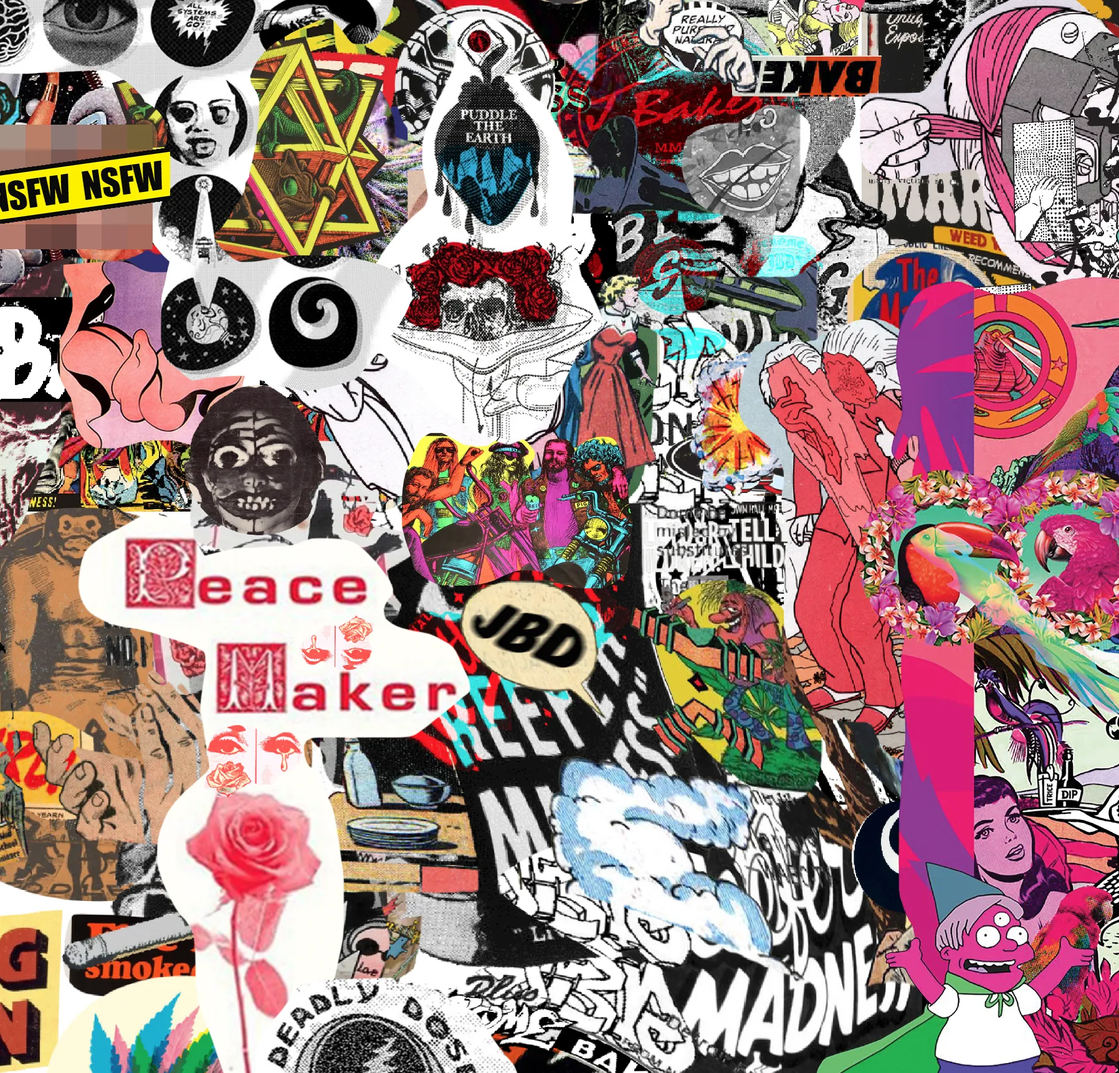
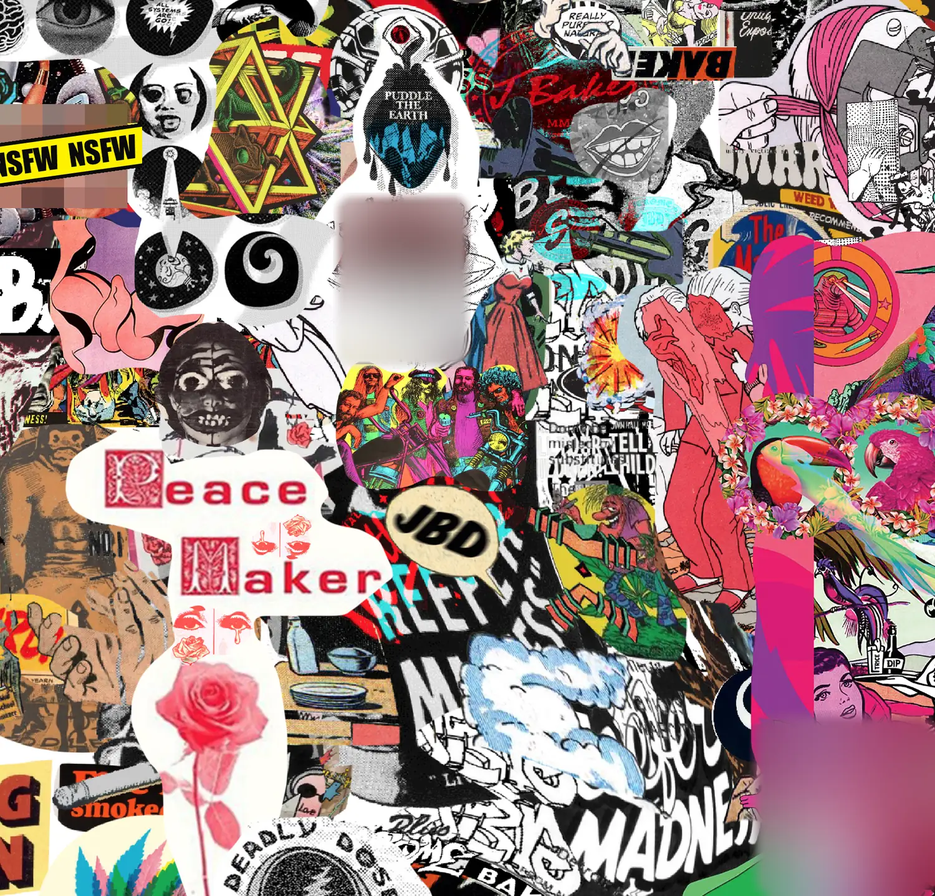
Origin art: blur third-party characters and brand marks, cut file sizes, lazy-load
- tools/build_origin.py: new BLURS list (soft blur, no tape; the tape stays for NSFW):
  McDonald's characters, Mickey, Alfred E. Neuman, Uncle Duke, Freak Brothers-style and
  R. Crumb comic characters, Rupert Bear, Nike swoosh parodies, the Simpsons-style gnome,
  Grateful Dead skull/skeleton art, Obey-style face, Disney-style comic animals, Donald Duck,
  Felix the Cat, King Kong, Campbell's can parody. Every blur keeps clear of the crew spots.
- Origin images resized/recompressed: booth 860->360KB, box-back 943->394KB, wall 817->376KB,
  box-cut 688->361KB, box 411->368KB, c2018 433->268KB (zoom still capped at ~1.6x pixels)
- Origin image is lazy-loaded (it sits below the first screen)
- Lunar Larry and Chomps spots re-centred on the art

Claude-Session: https://claude.ai/code/session_01AJWd6wB1XjU8D3zhntLjNq

diff --git a/crew/mr-x/index.html b/crew/mr-x/index.html
@@ -37,7 +37,7 @@
 <div class="say"><span class="line" id="line">X marks the spot. I&#x27;m the X.</span><button type="button" class="btn btn-ink" id="more">Say more</button></div>
 </div>
 </section>
-<section class="og pad" id="origin" aria-labelledby="ogT" data-kind="booth"><div class="wrap og-in"><div class="og-copy"><p class="og-kick">Off the booth wall</p><h2 id="ogT" class="display">Where Mr. X comes from</h2><p class="og-what">The long Jerome Baker booth wall</p><p class="og-txt">This is the long booth wall, the big one that goes up behind us at shows. Years of hand sketches, posters and murals, all ours, pinned to barn wood. Mr. X started out right here. JB fam, if you see us out and about, come find Mr. X on the wall.</p><p class="og-spot"><b>Find Mr. X:</b> The graph-paper sheet taped up on the right: five takes on one X.</p></div><figure class="og-view"><div class="og-frame" id="ogFrame" data-spot="68.8,39.9,9.7,30.3" style="--ar:3600/1246;--fa:2.000;--fa-m:1.600"><div class="og-stage" id="ogStage"><img src="../../assets/origin/wall.webp" alt="The whole long Jerome Baker booth wall: posters, framed art, a page of X sketches and a giant JBD tag on barn wood. Mr. X is marked: The graph-paper sheet taped up on the right: five takes on one X." width="3600" height="1246" decoding="async"><span class="og-mark" style="left:68.8%;top:39.9%;width:9.7%;height:30.3%"><span class="og-tag">Mr. X</span></span></div></div><figcaption class="og-bar"><button type="button" class="og-tog" id="ogTog" aria-pressed="false" data-in="Zoom in on Mr. X" data-out="See the whole thing">Zoom in on Mr. X</button><span class="og-cap">The long Jerome Baker booth wall. Tap the art to zoom.</span></figcaption></figure><div class="og-evo"><h3>From a sketch to the mark to Mr. X</h3><p>Mr. X started as a page of sketches: two b0ngs crossed into an X, drawn five different ways. If you know JB, you know that X. It became our crossed-bongs mark, and then the mark grew a face.</p><div class="og-steps"><figure class="og-step"><span class="og-step-pic"><img src="../../assets/origin/mrx-sketch.webp" alt="" width="640" height="693" loading="lazy" decoding="async"></span><figcaption><b>1.</b> The sketches. Five takes on two b0ngs crossed into an X, on graph paper.</figcaption></figure><span class="og-arrow" aria-hidden="true">→</span><figure class="og-step"><span class="og-step-pic"><img src="../../assets/origin/mrx-poster.webp" alt="" width="520" height="621" loading="lazy" decoding="async"></span><figcaption><b>2.</b> The mark. The crossed b0ngs under the Jerome Baker name.</figcaption></figure><span class="og-arrow" aria-hidden="true">→</span><figure class="og-step"><span class="og-step-pic"><img src="../../assets/img/jb-crossed.svg" alt="" width="300" height="285" loading="lazy" decoding="async"></span><figcaption><b>3.</b> The logo today. Same crossed b0ngs, in color.</figcaption></figure><span class="og-arrow" aria-hidden="true">→</span><figure class="og-step"><span class="og-step-pic"><img src="../../assets/crew/mrx.webp" alt="" width="508" height="720" loading="lazy" decoding="async"></span><figcaption><b>4.</b> Mr. X. The mark grew a face and found a mu$hroom.</figcaption></figure></div></div></div></section>
+<section class="og pad" id="origin" aria-labelledby="ogT" data-kind="booth"><div class="wrap og-in"><div class="og-copy"><p class="og-kick">Off the booth wall</p><h2 id="ogT" class="display">Where Mr. X comes from</h2><p class="og-what">The long Jerome Baker booth wall</p><p class="og-txt">This is the long booth wall, the big one that goes up behind us at shows. Years of hand sketches, posters and murals, all ours, pinned to barn wood. Mr. X started out right here. JB fam, if you see us out and about, come find Mr. X on the wall.</p><p class="og-spot"><b>Find Mr. X:</b> The graph-paper sheet taped up on the right: five takes on one X.</p></div><figure class="og-view"><div class="og-frame" id="ogFrame" data-spot="68.8,39.9,9.7,30.3" style="--ar:2700/934;--fa:2.000;--fa-m:1.600"><div class="og-stage" id="ogStage"><img src="../../assets/origin/wall.webp" alt="The whole long Jerome Baker booth wall: posters, framed art, a page of X sketches and a giant JBD tag on barn wood. Mr. X is marked: The graph-paper sheet taped up on the right: five takes on one X." width="2700" height="934" loading="lazy" decoding="async"><span class="og-mark" style="left:68.8%;top:39.9%;width:9.7%;height:30.3%"><span class="og-tag">Mr. X</span></span></div></div><figcaption class="og-bar"><button type="button" class="og-tog" id="ogTog" aria-pressed="false" data-in="Zoom in on Mr. X" data-out="See the whole thing">Zoom in on Mr. X</button><span class="og-cap">The long Jerome Baker booth wall. Tap the art to zoom.</span></figcaption></figure><div class="og-evo"><h3>From a sketch to the mark to Mr. X</h3><p>Mr. X started as a page of sketches: two b0ngs crossed into an X, drawn five different ways. If you know JB, you know that X. It became our crossed-bongs mark, and then the mark grew a face.</p><div class="og-steps"><figure class="og-step"><span class="og-step-pic"><img src="../../assets/origin/mrx-sketch.webp" alt="" width="640" height="693" loading="lazy" decoding="async"></span><figcaption><b>1.</b> The sketches. Five takes on two b0ngs crossed into an X, on graph paper.</figcaption></figure><span class="og-arrow" aria-hidden="true">→</span><figure class="og-step"><span class="og-step-pic"><img src="../../assets/origin/mrx-poster.webp" alt="" width="520" height="621" loading="lazy" decoding="async"></span><figcaption><b>2.</b> The mark. The crossed b0ngs under the Jerome Baker name.</figcaption></figure><span class="og-arrow" aria-hidden="true">→</span><figure class="og-step"><span class="og-step-pic"><img src="../../assets/img/jb-crossed.svg" alt="" width="300" height="285" loading="lazy" decoding="async"></span><figcaption><b>3.</b> The logo today. Same crossed b0ngs, in color.</figcaption></figure><span class="og-arrow" aria-hidden="true">→</span><figure class="og-step"><span class="og-step-pic"><img src="../../assets/crew/mrx.webp" alt="" width="508" height="720" loading="lazy" decoding="async"></span><figcaption><b>4.</b> Mr. X. The mark grew a face and found a mu$hroom.</figcaption></figure></div></div></div></section>
 <section class="who pad dots" aria-label="Who they are">
 <div class="wrap">
 <p class="who-tag">Who they are</p>

diff --git a/crew/the-zone-outs/index.html b/crew/the-zone-outs/index.html
@@ -37,7 +37,7 @@
 <div class="say"><span class="line" id="line">You are getting very stylish.</span><button type="button" class="btn btn-ink" id="more">Say more</button></div>
 </div>
 </section>
-<section class="og pad" id="origin" aria-labelledby="ogT" data-kind="booth"><div class="wrap og-in"><div class="og-copy"><p class="og-kick">Off the booth wall</p><h2 id="ogT" class="display">Where The Zone-Outs comes from</h2><p class="og-what">A Jerome Baker booth wall</p><p class="og-txt">This is one of our booth walls. We&#x27;ve been hauling walls like this to shows for years. Hand sketches, murals, posters and stickers, all ours, all on barn wood. The Zone-Outs started out right here. JB fam, if you see us out and about, come find The Zone-Outs on the wall.</p><p class="og-spot"><b>Find The Zone-Outs:</b> Bottom right corner: Junior, Granny and Father, all three obeying, eyes spinning.</p></div><figure class="og-view"><div class="og-frame" id="ogFrame" data-spot="73.6,78.4,24.9,20.8" style="--ar:2400/1706;--fa:1.407;--fa-m:1.407"><div class="og-stage" id="ogStage"><img src="../../assets/origin/booth.webp" alt="A whole Jerome Baker trade-show booth wall: barn wood, the lion in the window, a wanted poster, Baker Bots, brass portholes and three hypnotized heads. The Zone-Outs is marked: Bottom right corner: Junior, Granny and Father, all three obeying, eyes spinning." width="2400" height="1706" decoding="async"><span class="og-mark" style="left:73.6%;top:78.4%;width:24.9%;height:20.8%"><span class="og-tag">The Zone-Outs</span></span></div></div><figcaption class="og-bar"><button type="button" class="og-tog" id="ogTog" aria-pressed="false" data-in="Zoom in on The Zone-Outs" data-out="See the whole thing">Zoom in on The Zone-Outs</button><span class="og-cap">A Jerome Baker booth wall. The not-safe-for-work bits are taped over.</span></figcaption></figure></div></section>
+<section class="og pad" id="origin" aria-labelledby="ogT" data-kind="booth"><div class="wrap og-in"><div class="og-copy"><p class="og-kick">Off the booth wall</p><h2 id="ogT" class="display">Where The Zone-Outs comes from</h2><p class="og-what">A Jerome Baker booth wall</p><p class="og-txt">This is one of our booth walls. We&#x27;ve been hauling walls like this to shows for years. Hand sketches, murals, posters and stickers, all ours, all on barn wood. The Zone-Outs started out right here. JB fam, if you see us out and about, come find The Zone-Outs on the wall.</p><p class="og-spot"><b>Find The Zone-Outs:</b> Bottom right corner: Junior, Granny and Father, all three obeying, eyes spinning.</p></div><figure class="og-view"><div class="og-frame" id="ogFrame" data-spot="73.6,78.4,24.9,20.8" style="--ar:1700/1208;--fa:1.407;--fa-m:1.407"><div class="og-stage" id="ogStage"><img src="../../assets/origin/booth.webp" alt="A whole Jerome Baker trade-show booth wall: barn wood, the lion in the window, a wanted poster, Baker Bots, brass portholes and three hypnotized heads. The Zone-Outs is marked: Bottom right corner: Junior, Granny and Father, all three obeying, eyes spinning." width="1700" height="1208" loading="lazy" decoding="async"><span class="og-mark" style="left:73.6%;top:78.4%;width:24.9%;height:20.8%"><span class="og-tag">The Zone-Outs</span></span></div></div><figcaption class="og-bar"><button type="button" class="og-tog" id="ogTog" aria-pressed="false" data-in="Zoom in on The Zone-Outs" data-out="See the whole thing">Zoom in on The Zone-Outs</button><span class="og-cap">A Jerome Baker booth wall. The not-safe-for-work bits are taped over.</span></figcaption></figure></div></section>
 <section class="who pad dots" aria-label="Who they are">
 <div class="wrap">
 <p class="who-tag">Who they are</p>

diff --git a/crew/lil-lucky/index.html b/crew/lil-lucky/index.html
@@ -37,7 +37,7 @@
 <div class="say"><span class="line" id="line">One scoop or two? It&#x27;s melting either way.</span><button type="button" class="btn btn-ink" id="more">Say more</button></div>
 </div>
 </section>
-<section class="og pad" id="origin" aria-labelledby="ogT" data-kind="box"><div class="wrap og-in"><div class="og-copy"><p class="og-kick">Straight off the box</p><h2 id="ogT" class="display">Where Lil&#x27; Lucky comes from</h2><p class="og-what">The Jerome Baker box</p><p class="og-txt">This is the Jerome Baker box. Our top pieces ship in it. Jason Harris designed it over a long, long time, with some psych3delic enhancement, and there&#x27;s a whole universe in there. Some of it is not safe for work, so online we tape it up. If you know, you know. Own a JB box? Open it up. Lil&#x27; Lucky&#x27;s in there.</p><p class="og-spot"><b>Find Lil&#x27; Lucky:</b> Top right, the yellow-faced devil, just above the CENSORED tape.</p></div><figure class="og-view"><div class="og-frame" id="ogFrame" data-spot="78.7,4.0,10.7,11.3" style="--ar:1500/1146;--fa:1.333;--fa-m:1.309"><div class="og-stage" id="ogStage"><img src="../../assets/origin/box.webp" alt="The whole Jerome Baker box art, a collage of old comics, pulp ads and JB tags, with the not-safe-for-work parts taped over. Lil&#x27; Lucky is marked: Top right, the yellow-faced devil, just above the CENSORED tape." width="1500" height="1146" decoding="async"><span class="og-mark" style="left:78.7%;top:4.0%;width:10.7%;height:11.3%"><span class="og-tag">Lil&#x27; Lucky</span></span></div></div><figcaption class="og-bar"><button type="button" class="og-tog" id="ogTog" aria-pressed="false" data-in="Zoom in on Lil&#x27; Lucky" data-out="See the whole thing">Zoom in on Lil&#x27; Lucky</button><span class="og-cap">The Jerome Baker box. The not-safe-for-work bits are taped over.</span></figcaption></figure></div></section>
+<section class="og pad" id="origin" aria-labelledby="ogT" data-kind="box"><div class="wrap og-in"><div class="og-copy"><p class="og-kick">Straight off the box</p><h2 id="ogT" class="display">Where Lil&#x27; Lucky comes from</h2><p class="og-what">The Jerome Baker box</p><p class="og-txt">This is the Jerome Baker box. Our top pieces ship in it. Jason Harris designed it over a long, long time, with some psych3delic enhancement, and there&#x27;s a whole universe in there. Some of it is not safe for work, so online we tape it up. If you know, you know. Own a JB box? Open it up. Lil&#x27; Lucky&#x27;s in there.</p><p class="og-spot"><b>Find Lil&#x27; Lucky:</b> Top right, the yellow-faced devil, just above the CENSORED tape.</p></div><figure class="og-view"><div class="og-frame" id="ogFrame" data-spot="78.7,4.0,10.7,11.3" style="--ar:1500/1146;--fa:1.333;--fa-m:1.309"><div class="og-stage" id="ogStage"><img src="../../assets/origin/box.webp" alt="The whole Jerome Baker box art, a collage of old comics, pulp ads and JB tags, with the not-safe-for-work parts taped over. Lil&#x27; Lucky is marked: Top right, the yellow-faced devil, just above the CENSORED tape." width="1500" height="1146" loading="lazy" decoding="async"><span class="og-mark" style="left:78.7%;top:4.0%;width:10.7%;height:11.3%"><span class="og-tag">Lil&#x27; Lucky</span></span></div></div><figcaption class="og-bar"><button type="button" class="og-tog" id="ogTog" aria-pressed="false" data-in="Zoom in on Lil&#x27; Lucky" data-out="See the whole thing">Zoom in on Lil&#x27; Lucky</button><span class="og-cap">The Jerome Baker box. The not-safe-for-work bits are taped over.</span></figcaption></figure></div></section>
 <section class="who pad dots" aria-label="Who they are">
 <div class="wrap">
 <p class="who-tag">Who they are</p>

diff --git a/crew/dj-rivets/index.html b/crew/dj-rivets/index.html
@@ -37,7 +37,7 @@
 <div class="say"><span class="line" id="line">Drop incoming.</span><button type="button" class="btn btn-ink" id="more">Say more</button></div>
 </div>
 </section>
-<section class="og pad" id="origin" aria-labelledby="ogT" data-kind="booth"><div class="wrap og-in"><div class="og-copy"><p class="og-kick">Off the booth wall</p><h2 id="ogT" class="display">Where DJ Rivets comes from</h2><p class="og-what">A Jerome Baker booth wall</p><p class="og-txt">This is one of our booth walls. We&#x27;ve been hauling walls like this to shows for years. Hand sketches, murals, posters and stickers, all ours, all on barn wood. DJ Rivets started out right here. JB fam, if you see us out and about, come find DJ Rivets on the wall.</p><p class="og-spot"><b>Find DJ Rivets:</b> The Baker Bots poster on the right. Robots built out of glass, posing in front of their boxes.</p></div><figure class="og-view"><div class="og-frame" id="ogFrame" data-spot="75.9,30.1,21.5,42.4" style="--ar:2400/1706;--fa:1.407;--fa-m:1.407"><div class="og-stage" id="ogStage"><img src="../../assets/origin/booth.webp" alt="A whole Jerome Baker trade-show booth wall: barn wood, the lion in the window, a wanted poster, Baker Bots, brass portholes and three hypnotized heads. DJ Rivets is marked: The Baker Bots poster on the right. Robots built out of glass, posing in front of their boxes." width="2400" height="1706" decoding="async"><span class="og-mark" style="left:75.9%;top:30.1%;width:21.5%;height:42.4%"><span class="og-tag">DJ Rivets</span></span></div></div><figcaption class="og-bar"><button type="button" class="og-tog" id="ogTog" aria-pressed="false" data-in="Zoom in on DJ Rivets" data-out="See the whole thing">Zoom in on DJ Rivets</button><span class="og-cap">A Jerome Baker booth wall. The not-safe-for-work bits are taped over.</span></figcaption></figure></div></section>
+<section class="og pad" id="origin" aria-labelledby="ogT" data-kind="booth"><div class="wrap og-in"><div class="og-copy"><p class="og-kick">Off the booth wall</p><h2 id="ogT" class="display">Where DJ Rivets comes from</h2><p class="og-what">A Jerome Baker booth wall</p><p class="og-txt">This is one of our booth walls. We&#x27;ve been hauling walls like this to shows for years. Hand sketches, murals, posters and stickers, all ours, all on barn wood. DJ Rivets started out right here. JB fam, if you see us out and about, come find DJ Rivets on the wall.</p><p class="og-spot"><b>Find DJ Rivets:</b> The Baker Bots poster on the right. Robots built out of glass, posing in front of their boxes.</p></div><figure class="og-view"><div class="og-frame" id="ogFrame" data-spot="75.9,30.1,21.5,42.4" style="--ar:1700/1208;--fa:1.407;--fa-m:1.407"><div class="og-stage" id="ogStage"><img src="../../assets/origin/booth.webp" alt="A whole Jerome Baker trade-show booth wall: barn wood, the lion in the window, a wanted poster, Baker Bots, brass portholes and three hypnotized heads. DJ Rivets is marked: The Baker Bots poster on the right. Robots built out of glass, posing in front of their boxes." width="1700" height="1208" loading="lazy" decoding="async"><span class="og-mark" style="left:75.9%;top:30.1%;width:21.5%;height:42.4%"><span class="og-tag">DJ Rivets</span></span></div></div><figcaption class="og-bar"><button type="button" class="og-tog" id="ogTog" aria-pressed="false" data-in="Zoom in on DJ Rivets" data-out="See the whole thing">Zoom in on DJ Rivets</button><span class="og-cap">A Jerome Baker booth wall. The not-safe-for-work bits are taped over.</span></figcaption></figure></div></section>
 <section class="who pad dots" aria-label="Who they are">
 <div class="wrap">
 <p class="who-tag">Who they are</p>

diff --git a/crew/dr-squint/index.html b/crew/dr-squint/index.html
@@ -37,7 +37,7 @@
 <div class="say"><span class="line" id="line">Read the bottom line.</span><button type="button" class="btn btn-ink" id="more">Say more</button></div>
 </div>
 </section>
-<section class="og pad" id="origin" aria-labelledby="ogT" data-kind="collage"><div class="wrap og-in"><div class="og-copy"><p class="og-kick">Off the 2018 collage</p><h2 id="ogT" class="display">Where Dr. Squint comes from</h2><p class="og-what">The 2018 JB C@nnabis Collection collage</p><p class="og-txt">This is the JB C@nnabis Collection collage from 2018. Same cut-and-paste universe as the box: old comics, pulp ads and our own tags. Parts of it are not safe for work, so online it gets the tape. If you know, you know. Dr. Squint was hiding in plain sight the whole time.</p><p class="og-spot"><b>Find Dr. Squint:</b> Left of center, the red-haired girl. Two eyes back then. The rest of her stays taped up.</p></div><figure class="og-view"><div class="og-frame" id="ogFrame" data-spot="26.8,38.0,4.6,16.0" style="--ar:2390/622;--fa:2.000;--fa-m:1.600"><div class="og-stage" id="ogStage"><img src="../../assets/origin/c2018.webp" alt="The whole 2018 JB C@nnabis Collection collage, comics, posters and JB tags, with the not-safe-for-work parts taped over. Dr. Squint is marked: Left of center, the red-haired girl. Two eyes back then. The rest of her stays taped up." width="2390" height="622" decoding="async"><span class="og-mark" style="left:26.8%;top:38.0%;width:4.6%;height:16.0%"><span class="og-tag">Dr. Squint</span></span></div></div><figcaption class="og-bar"><button type="button" class="og-tog" id="ogTog" aria-pressed="false" data-in="Zoom in on Dr. Squint" data-out="See the whole thing">Zoom in on Dr. Squint</button><span class="og-cap">The 2018 JB C@nnabis Collection collage. The not-safe-for-work bits are taped over.</span></figcaption></figure></div></section>
+<section class="og pad" id="origin" aria-labelledby="ogT" data-kind="collage"><div class="wrap og-in"><div class="og-copy"><p class="og-kick">Off the 2018 collage</p><h2 id="ogT" class="display">Where Dr. Squint comes from</h2><p class="og-what">The 2018 JB C@nnabis Collection collage</p><p class="og-txt">This is the JB C@nnabis Collection collage from 2018. Same cut-and-paste universe as the box: old comics, pulp ads and our own tags. Parts of it are not safe for work, so online it gets the tape. If you know, you know. Dr. Squint was hiding in plain sight the whole time.</p><p class="og-spot"><b>Find Dr. Squint:</b> Left of center, the red-haired girl. Two eyes back then. The rest of her stays taped up.</p></div><figure class="og-view"><div class="og-frame" id="ogFrame" data-spot="26.8,38.0,4.6,16.0" style="--ar:2390/622;--fa:2.000;--fa-m:1.600"><div class="og-stage" id="ogStage"><img src="../../assets/origin/c2018.webp" alt="The whole 2018 JB C@nnabis Collection collage, comics, posters and JB tags, with the not-safe-for-work parts taped over. Dr. Squint is marked: Left of center, the red-haired girl. Two eyes back then. The rest of her stays taped up." width="2390" height="622" loading="lazy" decoding="async"><span class="og-mark" style="left:26.8%;top:38.0%;width:4.6%;height:16.0%"><span class="og-tag">Dr. Squint</span></span></div></div><figcaption class="og-bar"><button type="button" class="og-tog" id="ogTog" aria-pressed="false" data-in="Zoom in on Dr. Squint" data-out="See the whole thing">Zoom in on Dr. Squint</button><span class="og-cap">The 2018 JB C@nnabis Collection collage. The not-safe-for-work bits are taped over.</span></figcaption></figure></div></section>
 <section class="who pad dots" aria-label="Who they are">
 <div class="wrap">
 <p class="who-tag">Who they are</p>

diff --git a/crew/big-stitch/index.html b/crew/big-stitch/index.html
@@ -37,7 +37,7 @@
 <div class="say"><span class="line" id="line">I&#x27;m retired. Mostly.</span><button type="button" class="btn btn-ink" id="more">Say more</button></div>
 </div>
 </section>
-<section class="og pad" id="origin" aria-labelledby="ogT" data-kind="box"><div class="wrap og-in"><div class="og-copy"><p class="og-kick">Straight off the box</p><h2 id="ogT" class="display">Where Big Stitch comes from</h2><p class="og-what">The Jerome Baker box</p><p class="og-txt">This is the Jerome Baker box. Our top pieces ship in it. Jason Harris designed it over a long, long time, with some psych3delic enhancement, and there&#x27;s a whole universe in there. Some of it is not safe for work, so online we tape it up. If you know, you know. Own a JB box? Open it up. Big Stitch&#x27;s in there.</p><p class="og-spot"><b>Find Big Stitch:</b> Lower left, the PUBLIC ENEMY NO. 1 poster peeking out from behind a JB tag.</p></div><figure class="og-view"><div class="og-frame" id="ogFrame" data-spot="24.1,63.1,12.0,14.4" style="--ar:1500/1146;--fa:1.333;--fa-m:1.309"><div class="og-stage" id="ogStage"><img src="../../assets/origin/box.webp" alt="The whole Jerome Baker box art, a collage of old comics, pulp ads and JB tags, with the not-safe-for-work parts taped over. Big Stitch is marked: Lower left, the PUBLIC ENEMY NO. 1 poster peeking out from behind a JB tag." width="1500" height="1146" decoding="async"><span class="og-mark" style="left:24.1%;top:63.1%;width:12.0%;height:14.4%"><span class="og-tag">Big Stitch</span></span></div></div><figcaption class="og-bar"><button type="button" class="og-tog" id="ogTog" aria-pressed="false" data-in="Zoom in on Big Stitch" data-out="See the whole thing">Zoom in on Big Stitch</button><span class="og-cap">The Jerome Baker box. The not-safe-for-work bits are taped over.</span></figcaption></figure></div></section>
+<section class="og pad" id="origin" aria-labelledby="ogT" data-kind="box"><div class="wrap og-in"><div class="og-copy"><p class="og-kick">Straight off the box</p><h2 id="ogT" class="display">Where Big Stitch comes from</h2><p class="og-what">The Jerome Baker box</p><p class="og-txt">This is the Jerome Baker box. Our top pieces ship in it. Jason Harris designed it over a long, long time, with some psych3delic enhancement, and there&#x27;s a whole universe in there. Some of it is not safe for work, so online we tape it up. If you know, you know. Own a JB box? Open it up. Big Stitch&#x27;s in there.</p><p class="og-spot"><b>Find Big Stitch:</b> Lower left, the PUBLIC ENEMY NO. 1 poster peeking out from behind a JB tag.</p></div><figure class="og-view"><div class="og-frame" id="ogFrame" data-spot="24.1,63.1,12.0,14.4" style="--ar:1500/1146;--fa:1.333;--fa-m:1.309"><div class="og-stage" id="ogStage"><img src="../../assets/origin/box.webp" alt="The whole Jerome Baker box art, a collage of old comics, pulp ads and JB tags, with the not-safe-for-work parts taped over. Big Stitch is marked: Lower left, the PUBLIC ENEMY NO. 1 poster peeking out from behind a JB tag." width="1500" height="1146" loading="lazy" decoding="async"><span class="og-mark" style="left:24.1%;top:63.1%;width:12.0%;height:14.4%"><span class="og-tag">Big Stitch</span></span></div></div><figcaption class="og-bar"><button type="button" class="og-tog" id="ogTog" aria-pressed="false" data-in="Zoom in on Big Stitch" data-out="See the whole thing">Zoom in on Big Stitch</button><span class="og-cap">The Jerome Baker box. The not-safe-for-work bits are taped over.</span></figcaption></figure></div></section>
 <section class="who pad dots" aria-label="Who they are">
 <div class="wrap">
 <p class="who-tag">Who they are</p>

diff --git a/crew/lookie-lou/index.html b/crew/lookie-lou/index.html
@@ -37,7 +37,7 @@
 <div class="say"><span class="line" id="line">Read all about it.</span><button type="button" class="btn btn-ink" id="more">Say more</button></div>
 </div>
 </section>
-<section class="og pad" id="origin" aria-labelledby="ogT" data-kind="booth"><div class="wrap og-in"><div class="og-copy"><p class="og-kick">Off the booth wall</p><h2 id="ogT" class="display">Where Lookie Lou comes from</h2><p class="og-what">A Jerome Baker booth wall</p><p class="og-txt">This is one of our booth walls. We&#x27;ve been hauling walls like this to shows for years. Hand sketches, murals, posters and stickers, all ours, all on barn wood. Lookie Lou started out right here. JB fam, if you see us out and about, come find Lookie Lou on the wall.</p><p class="og-spot"><b>Find Lookie Lou:</b> The top brass porthole, middle of the wall. Something in there is looking back.</p></div><figure class="og-view"><div class="og-frame" id="ogFrame" data-spot="50.6,58.0,10.4,12.8" style="--ar:2400/1706;--fa:1.407;--fa-m:1.407"><div class="og-stage" id="ogStage"><img src="../../assets/origin/booth.webp" alt="A whole Jerome Baker trade-show booth wall: barn wood, the lion in the window, a wanted poster, Baker Bots, brass portholes and three hypnotized heads. Lookie Lou is marked: The top brass porthole, middle of the wall. Something in there is looking back." width="2400" height="1706" decoding="async"><span class="og-mark" style="left:50.6%;top:58.0%;width:10.4%;height:12.8%"><span class="og-tag">Lookie Lou</span></span></div></div><figcaption class="og-bar"><button type="button" class="og-tog" id="ogTog" aria-pressed="false" data-in="Zoom in on Lookie Lou" data-out="See the whole thing">Zoom in on Lookie Lou</button><span class="og-cap">A Jerome Baker booth wall. The not-safe-for-work bits are taped over.</span></figcaption></figure></div></section>
+<section class="og pad" id="origin" aria-labelledby="ogT" data-kind="booth"><div class="wrap og-in"><div class="og-copy"><p class="og-kick">Off the booth wall</p><h2 id="ogT" class="display">Where Lookie Lou comes from</h2><p class="og-what">A Jerome Baker booth wall</p><p class="og-txt">This is one of our booth walls. We&#x27;ve been hauling walls like this to shows for years. Hand sketches, murals, posters and stickers, all ours, all on barn wood. Lookie Lou started out right here. JB fam, if you see us out and about, come find Lookie Lou on the wall.</p><p class="og-spot"><b>Find Lookie Lou:</b> The top brass porthole, middle of the wall. Something in there is looking back.</p></div><figure class="og-view"><div class="og-frame" id="ogFrame" data-spot="50.6,58.0,10.4,12.8" style="--ar:1700/1208;--fa:1.407;--fa-m:1.407"><div class="og-stage" id="ogStage"><img src="../../assets/origin/booth.webp" alt="A whole Jerome Baker trade-show booth wall: barn wood, the lion in the window, a wanted poster, Baker Bots, brass portholes and three hypnotized heads. Lookie Lou is marked: The top brass porthole, middle of the wall. Something in there is looking back." width="1700" height="1208" loading="lazy" decoding="async"><span class="og-mark" style="left:50.6%;top:58.0%;width:10.4%;height:12.8%"><span class="og-tag">Lookie Lou</span></span></div></div><figcaption class="og-bar"><button type="button" class="og-tog" id="ogTog" aria-pressed="false" data-in="Zoom in on Lookie Lou" data-out="See the whole thing">Zoom in on Lookie Lou</button><span class="og-cap">A Jerome Baker booth wall. The not-safe-for-work bits are taped over.</span></figcaption></figure></div></section>
 <section class="who pad dots" aria-label="Who they are">
 <div class="wrap">
 <p class="who-tag">Who they are</p>

diff --git a/crew/lunar-larry/index.html b/crew/lunar-larry/index.html
@@ -37,7 +37,7 @@
 <div class="say"><span class="line" id="line">Gravity is a suggestion.</span><button type="button" class="btn btn-ink" id="more">Say more</button></div>
 </div>
 </section>
-<section class="og pad" id="origin" aria-labelledby="ogT" data-kind="box"><div class="wrap og-in"><div class="og-copy"><p class="og-kick">Straight off the box</p><h2 id="ogT" class="display">Where Lunar Larry comes from</h2><p class="og-what">The back of the Jerome Baker box</p><p class="og-txt">This is the back of the Jerome Baker box, the one our top pieces ship in. Jason Harris built it up over a long, long time, with some psych3delic enhancement. It&#x27;s a whole universe back there. A lot of it is not safe for work, so online it gets the tape. If you know, you know. Got a JB box? Flip it over and go find Lunar Larry.</p><p class="og-spot"><b>Find Lunar Larry:</b> Bottom right, the chimp in the space helmet.</p></div><figure class="og-view"><div class="og-frame" id="ogFrame" data-spot="68.3,57.6,15.0,21.7" style="--ar:2400/1840;--fa:1.333;--fa-m:1.304"><div class="og-stage" id="ogStage"><img src="../../assets/origin/box-back.webp" alt="The whole back of the Jerome Baker box, a dense psych3delic collage, with the not-safe-for-work parts taped over. Lunar Larry is marked: Bottom right, the chimp in the space helmet." width="2400" height="1840" decoding="async"><span class="og-mark" style="left:68.3%;top:57.6%;width:15.0%;height:21.7%"><span class="og-tag">Lunar Larry</span></span></div></div><figcaption class="og-bar"><button type="button" class="og-tog" id="ogTog" aria-pressed="false" data-in="Zoom in on Lunar Larry" data-out="See the whole thing">Zoom in on Lunar Larry</button><span class="og-cap">The back of the Jerome Baker box. The not-safe-for-work bits are taped over.</span></figcaption></figure></div></section>
+<section class="og pad" id="origin" aria-labelledby="ogT" data-kind="box"><div class="wrap og-in"><div class="og-copy"><p class="og-kick">Straight off the box</p><h2 id="ogT" class="display">Where Lunar Larry comes from</h2><p class="og-what">The back of the Jerome Baker box</p><p class="og-txt">This is the back of the Jerome Baker box, the one our top pieces ship in. Jason Harris built it up over a long, long time, with some psych3delic enhancement. It&#x27;s a whole universe back there. A lot of it is not safe for work, so online it gets the tape. If you know, you know. Got a JB box? Flip it over and go find Lunar Larry.</p><p class="og-spot"><b>Find Lunar Larry:</b> Bottom right, the chimp in the space helmet.</p></div><figure class="og-view"><div class="og-frame" id="ogFrame" data-spot="68.3,62.0,15.0,20.5" style="--ar:1600/1227;--fa:1.333;--fa-m:1.304"><div class="og-stage" id="ogStage"><img src="../../assets/origin/box-back.webp" alt="The whole back of the Jerome Baker box, a dense psych3delic collage, with the not-safe-for-work parts taped over. Lunar Larry is marked: Bottom right, the chimp in the space helmet." width="1600" height="1227" loading="lazy" decoding="async"><span class="og-mark" style="left:68.3%;top:62.0%;width:15.0%;height:20.5%"><span class="og-tag">Lunar Larry</span></span></div></div><figcaption class="og-bar"><button type="button" class="og-tog" id="ogTog" aria-pressed="false" data-in="Zoom in on Lunar Larry" data-out="See the whole thing">Zoom in on Lunar Larry</button><span class="og-cap">The back of the Jerome Baker box. The not-safe-for-work bits are taped over.</span></figcaption></figure></div></section>
 <section class="who pad dots" aria-label="Who they are">
 <div class="wrap">
 <p class="who-tag">Who they are</p>

diff --git a/crew/gutterball/index.html b/crew/gutterball/index.html
@@ -37,7 +37,7 @@
 <div class="say"><span class="line" id="line">Strike. Don&#x27;t say my name.</span><button type="button" class="btn btn-ink" id="more">Say more</button></div>
 </div>
 </section>
-<section class="og pad" id="origin" aria-labelledby="ogT" data-kind="collage"><div class="wrap og-in"><div class="og-copy"><p class="og-kick">Off the 2018 collage</p><h2 id="ogT" class="display">Where Gutterball comes from</h2><p class="og-what">The 2018 JB C@nnabis Collection collage</p><p class="og-txt">This is the JB C@nnabis Collection collage from 2018. Same cut-and-paste universe as the box: old comics, pulp ads and our own tags. Parts of it are not safe for work, so online it gets the tape. If you know, you know. Gutterball was hiding in plain sight the whole time.</p><p class="og-spot"><b>Find Gutterball:</b> Right of center, the armadillo at the foot of the pyramid.</p></div><figure class="og-view"><div class="og-frame" id="ogFrame" data-spot="60.8,61.9,6.6,22.0" style="--ar:2390/622;--fa:2.000;--fa-m:1.600"><div class="og-stage" id="ogStage"><img src="../../assets/origin/c2018.webp" alt="The whole 2018 JB C@nnabis Collection collage, comics, posters and JB tags, with the not-safe-for-work parts taped over. Gutterball is marked: Right of center, the armadillo at the foot of the pyramid." width="2390" height="622" decoding="async"><span class="og-mark" style="left:60.8%;top:61.9%;width:6.6%;height:22.0%"><span class="og-tag">Gutterball</span></span></div></div><figcaption class="og-bar"><button type="button" class="og-tog" id="ogTog" aria-pressed="false" data-in="Zoom in on Gutterball" data-out="See the whole thing">Zoom in on Gutterball</button><span class="og-cap">The 2018 JB C@nnabis Collection collage. The not-safe-for-work bits are taped over.</span></figcaption></figure></div></section>
+<section class="og pad" id="origin" aria-labelledby="ogT" data-kind="collage"><div class="wrap og-in"><div class="og-copy"><p class="og-kick">Off the 2018 collage</p><h2 id="ogT" class="display">Where Gutterball comes from</h2><p class="og-what">The 2018 JB C@nnabis Collection collage</p><p class="og-txt">This is the JB C@nnabis Collection collage from 2018. Same cut-and-paste universe as the box: old comics, pulp ads and our own tags. Parts of it are not safe for work, so online it gets the tape. If you know, you know. Gutterball was hiding in plain sight the whole time.</p><p class="og-spot"><b>Find Gutterball:</b> Right of center, the armadillo at the foot of the pyramid.</p></div><figure class="og-view"><div class="og-frame" id="ogFrame" data-spot="60.8,61.9,6.6,22.0" style="--ar:2390/622;--fa:2.000;--fa-m:1.600"><div class="og-stage" id="ogStage"><img src="../../assets/origin/c2018.webp" alt="The whole 2018 JB C@nnabis Collection collage, comics, posters and JB tags, with the not-safe-for-work parts taped over. Gutterball is marked: Right of center, the armadillo at the foot of the pyramid." width="2390" height="622" loading="lazy" decoding="async"><span class="og-mark" style="left:60.8%;top:61.9%;width:6.6%;height:22.0%"><span class="og-tag">Gutterball</span></span></div></div><figcaption class="og-bar"><button type="button" class="og-tog" id="ogTog" aria-pressed="false" data-in="Zoom in on Gutterball" data-out="See the whole thing">Zoom in on Gutterball</button><span class="og-cap">The 2018 JB C@nnabis Collection collage. The not-safe-for-work bits are taped over.</span></figcaption></figure></div></section>
 <section class="who pad dots" aria-label="Who they are">
 <div class="wrap">
 <p class="who-tag">Who they are</p>

diff --git a/crew/ocho/index.html b/crew/ocho/index.html
@@ -37,7 +37,7 @@
 <div class="say"><span class="line" id="line">ENLIGHTEN ALL HUMANS.</span><button type="button" class="btn btn-ink" id="more">Say more</button></div>
 </div>
 </section>
-<section class="og pad" id="origin" aria-labelledby="ogT" data-kind="booth"><div class="wrap og-in"><div class="og-copy"><p class="og-kick">Off the booth wall</p><h2 id="ogT" class="display">Where Ocho comes from</h2><p class="og-what">A Jerome Baker booth wall</p><p class="og-txt">This is one of our booth walls. We&#x27;ve been hauling walls like this to shows for years. Hand sketches, murals, posters and stickers, all ours, all on barn wood. Ocho started out right here. JB fam, if you see us out and about, come find Ocho on the wall.</p><p class="og-spot"><b>Find Ocho:</b> The Enlighten All Humans sticker, top right. The orange guy with the green tentacles.</p></div><figure class="og-view"><div class="og-frame" id="ogFrame" data-spot="74.9,1.6,8.9,13.9" style="--ar:2400/1706;--fa:1.407;--fa-m:1.407"><div class="og-stage" id="ogStage"><img src="../../assets/origin/booth.webp" alt="A whole Jerome Baker trade-show booth wall: barn wood, the lion in the window, a wanted poster, Baker Bots, brass portholes and three hypnotized heads. Ocho is marked: The Enlighten All Humans sticker, top right. The orange guy with the green tentacles." width="2400" height="1706" decoding="async"><span class="og-mark" style="left:74.9%;top:1.6%;width:8.9%;height:13.9%"><span class="og-tag">Ocho</span></span></div></div><figcaption class="og-bar"><button type="button" class="og-tog" id="ogTog" aria-pressed="false" data-in="Zoom in on Ocho" data-out="See the whole thing">Zoom in on Ocho</button><span class="og-cap">A Jerome Baker booth wall. The not-safe-for-work bits are taped over.</span></figcaption></figure></div></section>
+<section class="og pad" id="origin" aria-labelledby="ogT" data-kind="booth"><div class="wrap og-in"><div class="og-copy"><p class="og-kick">Off the booth wall</p><h2 id="ogT" class="display">Where Ocho comes from</h2><p class="og-what">A Jerome Baker booth wall</p><p class="og-txt">This is one of our booth walls. We&#x27;ve been hauling walls like this to shows for years. Hand sketches, murals, posters and stickers, all ours, all on barn wood. Ocho started out right here. JB fam, if you see us out and about, come find Ocho on the wall.</p><p class="og-spot"><b>Find Ocho:</b> The Enlighten All Humans sticker, top right. The orange guy with the green tentacles.</p></div><figure class="og-view"><div class="og-frame" id="ogFrame" data-spot="74.9,1.6,8.9,13.9" style="--ar:1700/1208;--fa:1.407;--fa-m:1.407"><div class="og-stage" id="ogStage"><img src="../../assets/origin/booth.webp" alt="A whole Jerome Baker trade-show booth wall: barn wood, the lion in the window, a wanted poster, Baker Bots, brass portholes and three hypnotized heads. Ocho is marked: The Enlighten All Humans sticker, top right. The orange guy with the green tentacles." width="1700" height="1208" loading="lazy" decoding="async"><span class="og-mark" style="left:74.9%;top:1.6%;width:8.9%;height:13.9%"><span class="og-tag">Ocho</span></span></div></div><figcaption class="og-bar"><button type="button" class="og-tog" id="ogTog" aria-pressed="false" data-in="Zoom in on Ocho" data-out="See the whole thing">Zoom in on Ocho</button><span class="og-cap">A Jerome Baker booth wall. The not-safe-for-work bits are taped over.</span></figcaption></figure></div></section>
 <section class="who pad dots" aria-label="Who they are">
 <div class="wrap">
 <p class="who-tag">Who they are</p>

diff --git a/crew/mama-cobra/index.html b/crew/mama-cobra/index.html
@@ -37,7 +37,7 @@
 <div class="say"><span class="line" id="line">Ssssway with me.</span><button type="button" class="btn btn-ink" id="more">Say more</button></div>
 </div>
 </section>
-<section class="og pad" id="origin" aria-labelledby="ogT" data-kind="box"><div class="wrap og-in"><div class="og-copy"><p class="og-kick">Straight off the box</p><h2 id="ogT" class="display">Where Mama Cobra comes from</h2><p class="og-what">The Jerome Baker box</p><p class="og-txt">This is the Jerome Baker box. Our top pieces ship in it. Jason Harris designed it over a long, long time, with some psych3delic enhancement, and there&#x27;s a whole universe in there. Some of it is not safe for work, so online we tape it up. If you know, you know. Own a JB box? Open it up. Mama Cobra&#x27;s in there.</p><p class="og-spot"><b>Find Mama Cobra:</b> Right side, the rainbow cobra over the C@NNABIS poster.</p></div><figure class="og-view"><div class="og-frame" id="ogFrame" data-spot="86.5,28.8,10.0,13.1" style="--ar:1500/1146;--fa:1.333;--fa-m:1.309"><div class="og-stage" id="ogStage"><img src="../../assets/origin/box.webp" alt="The whole Jerome Baker box art, a collage of old comics, pulp ads and JB tags, with the not-safe-for-work parts taped over. Mama Cobra is marked: Right side, the rainbow cobra over the C@NNABIS poster." width="1500" height="1146" decoding="async"><span class="og-mark" style="left:86.5%;top:28.8%;width:10.0%;height:13.1%"><span class="og-tag">Mama Cobra</span></span></div></div><figcaption class="og-bar"><button type="button" class="og-tog" id="ogTog" aria-pressed="false" data-in="Zoom in on Mama Cobra" data-out="See the whole thing">Zoom in on Mama Cobra</button><span class="og-cap">The Jerome Baker box. The not-safe-for-work bits are taped over.</span></figcaption></figure></div></section>
+<section class="og pad" id="origin" aria-labelledby="ogT" data-kind="box"><div class="wrap og-in"><div class="og-copy"><p class="og-kick">Straight off the box</p><h2 id="ogT" class="display">Where Mama Cobra comes from</h2><p class="og-what">The Jerome Baker box</p><p class="og-txt">This is the Jerome Baker box. Our top pieces ship in it. Jason Harris designed it over a long, long time, with some psych3delic enhancement, and there&#x27;s a whole universe in there. Some of it is not safe for work, so online we tape it up. If you know, you know. Own a JB box? Open it up. Mama Cobra&#x27;s in there.</p><p class="og-spot"><b>Find Mama Cobra:</b> Right side, the rainbow cobra over the C@NNABIS poster.</p></div><figure class="og-view"><div class="og-frame" id="ogFrame" data-spot="86.5,28.8,10.0,13.1" style="--ar:1500/1146;--fa:1.333;--fa-m:1.309"><div class="og-stage" id="ogStage"><img src="../../assets/origin/box.webp" alt="The whole Jerome Baker box art, a collage of old comics, pulp ads and JB tags, with the not-safe-for-work parts taped over. Mama Cobra is marked: Right side, the rainbow cobra over the C@NNABIS poster." width="1500" height="1146" loading="lazy" decoding="async"><span class="og-mark" style="left:86.5%;top:28.8%;width:10.0%;height:13.1%"><span class="og-tag">Mama Cobra</span></span></div></div><figcaption class="og-bar"><button type="button" class="og-tog" id="ogTog" aria-pressed="false" data-in="Zoom in on Mama Cobra" data-out="See the whole thing">Zoom in on Mama Cobra</button><span class="og-cap">The Jerome Baker box. The not-safe-for-work bits are taped over.</span></figcaption></figure></div></section>
 <section class="who pad dots" aria-label="Who they are">
 <div class="wrap">
 <p class="who-tag">Who they are</p>

diff --git a/crew/chomps/index.html b/crew/chomps/index.html
@@ -37,7 +37,7 @@
 <div class="say"><span class="line" id="line">Mind if I take a bite?</span><button type="button" class="btn btn-ink" id="more">Say more</button></div>
 </div>
 </section>
-<section class="og pad" id="origin" aria-labelledby="ogT" data-kind="box"><div class="wrap og-in"><div class="og-copy"><p class="og-kick">Straight off the box</p><h2 id="ogT" class="display">Where Chomps comes from</h2><p class="og-what">The back of the Jerome Baker box</p><p class="og-txt">This is the back of the Jerome Baker box, the one our top pieces ship in. Jason Harris built it up over a long, long time, with some psych3delic enhancement. It&#x27;s a whole universe back there. A lot of it is not safe for work, so online it gets the tape. If you know, you know. Got a JB box? Flip it over and go find Chomps.</p><p class="og-spot"><b>Find Chomps:</b> Dead center: the big grin with the JBD tag on top.</p></div><figure class="og-view"><div class="og-frame" id="ogFrame" data-spot="45.0,44.0,14.2,16.3" style="--ar:2400/1840;--fa:1.333;--fa-m:1.304"><div class="og-stage" id="ogStage"><img src="../../assets/origin/box-back.webp" alt="The whole back of the Jerome Baker box, a dense psych3delic collage, with the not-safe-for-work parts taped over. Chomps is marked: Dead center: the big grin with the JBD tag on top." width="2400" height="1840" decoding="async"><span class="og-mark" style="left:45.0%;top:44.0%;width:14.2%;height:16.3%"><span class="og-tag">Chomps</span></span></div></div><figcaption class="og-bar"><button type="button" class="og-tog" id="ogTog" aria-pressed="false" data-in="Zoom in on Chomps" data-out="See the whole thing">Zoom in on Chomps</button><span class="og-cap">The back of the Jerome Baker box. The not-safe-for-work bits are taped over.</span></figcaption></figure></div></section>
+<section class="og pad" id="origin" aria-labelledby="ogT" data-kind="box"><div class="wrap og-in"><div class="og-copy"><p class="og-kick">Straight off the box</p><h2 id="ogT" class="display">Where Chomps comes from</h2><p class="og-what">The back of the Jerome Baker box</p><p class="og-txt">This is the back of the Jerome Baker box, the one our top pieces ship in. Jason Harris built it up over a long, long time, with some psych3delic enhancement. It&#x27;s a whole universe back there. A lot of it is not safe for work, so online it gets the tape. If you know, you know. Got a JB box? Flip it over and go find Chomps.</p><p class="og-spot"><b>Find Chomps:</b> Dead center: the big grin with the JBD tag on top.</p></div><figure class="og-view"><div class="og-frame" id="ogFrame" data-spot="45.0,44.0,14.2,20.5" style="--ar:1600/1227;--fa:1.333;--fa-m:1.304"><div class="og-stage" id="ogStage"><img src="../../assets/origin/box-back.webp" alt="The whole back of the Jerome Baker box, a dense psych3delic collage, with the not-safe-for-work parts taped over. Chomps is marked: Dead center: the big grin with the JBD tag on top." width="1600" height="1227" loading="lazy" decoding="async"><span class="og-mark" style="left:45.0%;top:44.0%;width:14.2%;height:20.5%"><span class="og-tag">Chomps</span></span></div></div><figcaption class="og-bar"><button type="button" class="og-tog" id="ogTog" aria-pressed="false" data-in="Zoom in on Chomps" data-out="See the whole thing">Zoom in on Chomps</button><span class="og-cap">The back of the Jerome Baker box. The not-safe-for-work bits are taped over.</span></figcaption></figure></div></section>
 <section class="who pad dots" aria-label="Who they are">
 <div class="wrap">
 <p class="who-tag">Who they are</p>
